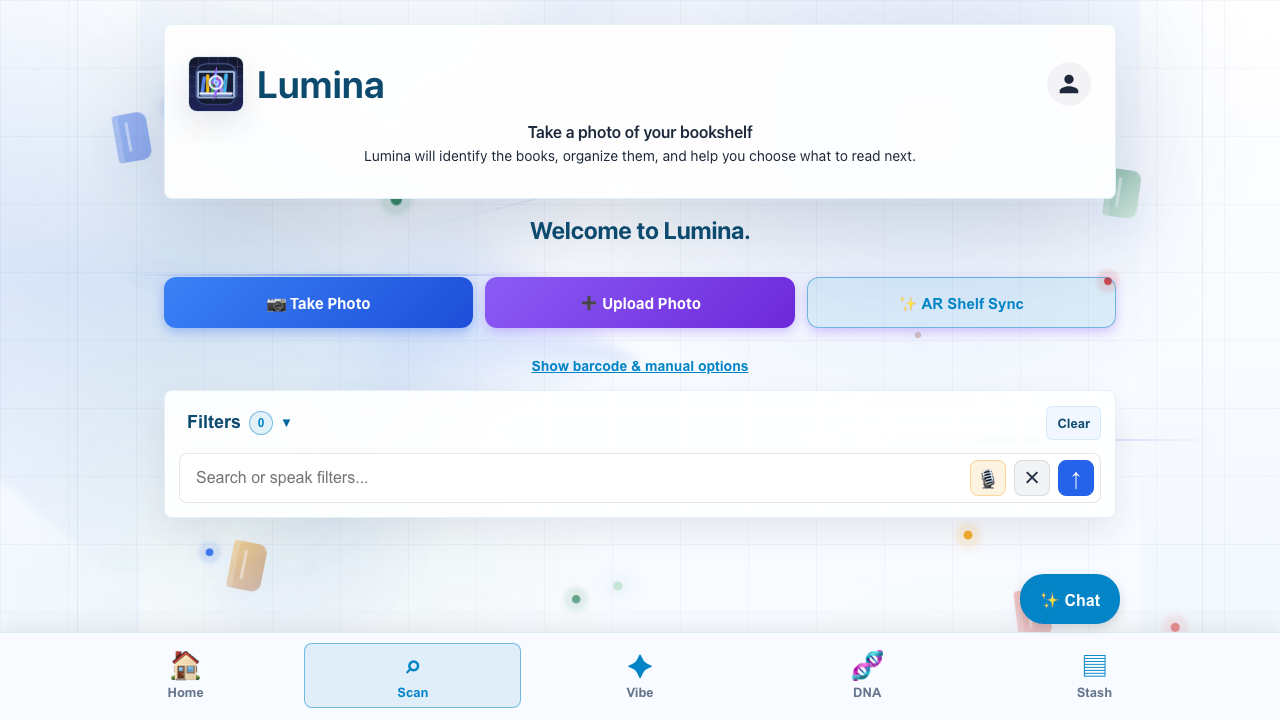
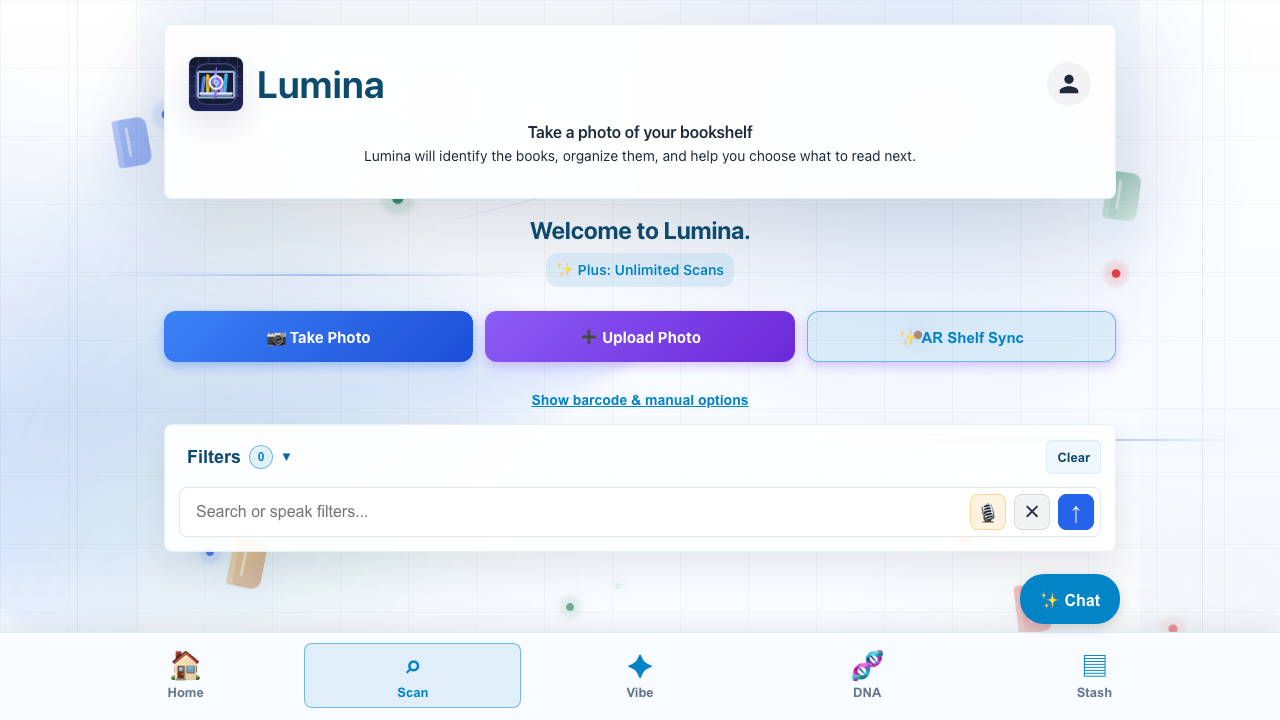
Disable Google Play Billing entirely, remove Purchases capacitor library, and enable free unlimited scans for all users

diff --git a/playwright-report/index.html b/playwright-report/index.html
@@ -87,4 +87,4 @@ Error generating stack: `+l.message+`
     <div id='root'></div>
   </body>
 </html>
[2 lines of base64/hex data omitted]

diff --git a/src/App.jsx b/src/App.jsx
@@ -68,7 +68,6 @@ import CompareTray from "./components/CompareTray";
 import ScanLandingSection from "./components/ScanLandingSection";
 import ScanResultsSection from "./components/ScanResultsSection";
 import HomeDashboard from "./components/HomeDashboard";
-import { Purchases, LOG_LEVEL } from "@revenuecat/purchases-capacitor";
 import localforage from "localforage";
 import { BarcodeFormat, BarcodeScanner } from "@capacitor-mlkit/barcode-scanning";
 const IS_BETA_MODE = true;
@@ -1817,24 +1816,6 @@ export default function App() {
   useEffect(() => {
     writeStoredJson("libraryCards", libraryCards);
   }, [libraryCards]);
-
-  useEffect(() => {
-    const initRevenueCat = async () => {
-      if (isNativeApp && !IS_BETA_MODE) {
-        try {
-          await Purchases.setLogLevel({ level: LOG_LEVEL.DEBUG });
-          if (isAndroidApp) {
-            await Purchases.configure({ apiKey: "test_nhJMYDdQJKSDFIFhVBzrtniTUJi" });
-          } else {
-            await Purchases.configure({ apiKey: "test_nhJMYDdQJKSDFIFhVBzrtniTUJi" });
-          }
-        } catch (e) {
-          console.error("Error initializing RevenueCat", e);
-        }
-      }
-    };
-    initRevenueCat();
-  }, []);
 
   useEffect(() => {
     if (!authLoading) return undefined;
@@ -4524,22 +4505,6 @@ Important:
       showToast("Hey bestie! ✨ Log in to unlock Beta Plus for unlimited scans! 🌙", "info");
       setCurrentPage("account");
       return;
-    }
-
-    if (!IS_BETA_MODE && isNativeApp) {
-      try {
-        const offerings = await Purchases.getOfferings();
-        if (offerings.current !== null && offerings.current.availablePackages.length !== 0) {
-          const packageToBuy = offerings.current.availablePackages[0];
-          await Purchases.purchasePackage({ aPackage: packageToBuy });
-        }
-      } catch (e) {
-        console.error("Purchase failed", e);
-        if (!e.userCancelled) {
-          showToast("Purchase failed. Please try again.", "error");
-        }
-        return;
-      }
     }
 
     setSelectedPlusPlan(plan.id);

diff --git a/src/hooks/useScan.js b/src/hooks/useScan.js
@@ -8,32 +8,12 @@ export function useScan({ db, user }) {
   // Scan Limit Tracking
   const [scanLimitModalState, setScanLimitModalState] = useState(null); // null, "login_required", "plus_required"
   const [anonymousScanCount, setAnonymousScanCount] = useState(0);
-  const [isAnonymousPlus, setIsAnonymousPlus] = useState(false);
+  const [isAnonymousPlus, setIsAnonymousPlus] = useState(true);
   const [userScanCount, setUserScanCount] = useState(0);
-  const [isUserPlus, setIsUserPlus] = useState(false);
+  const [isUserPlus, setIsUserPlus] = useState(true);
   const [lastScanDate, setLastScanDate] = useState("");
 
   const checkScanLimit = () => {
-    // Only allow Plus for logged-in users
-    const activePlus = user ? isUserPlus : false;
-    if (activePlus) return true;
-
-    const today = new Date().toISOString().split("T")[0];
-    const isNewDay = lastScanDate !== today;
-
-    if (user) {
-      const currentCount = isNewDay ? 0 : userScanCount;
-      if (currentCount >= 10) {
-        setScanLimitModalState("plus_required");
-        return false;
-      }
-    } else {
-      const currentCount = isNewDay ? 0 : anonymousScanCount;
-      if (currentCount >= 3) {
-        setScanLimitModalState("login_required");
-        return false;
-      }
-    }
     return true;
   };
 

diff --git a/src/test/useScan.test.jsx b/src/test/useScan.test.jsx
@@ -18,18 +18,18 @@ describe("useScan hook", () => {
   it("should check scan limit properly for anonymous user", () => {
     const { result } = renderHook(() => useScan({ db: {}, user: null }));
     
-    // Simulate they hit the limit of 3 today
+    // Simulate any scan count
     act(() => {
       result.current.setLastScanDate(new Date().toISOString().split("T")[0]);
-      result.current.setAnonymousScanCount(3);
+      result.current.setAnonymousScanCount(5);
     });
 
     let canScan;
     act(() => {
       canScan = result.current.checkScanLimit();
     });
-    expect(canScan).toBe(false);
-    expect(result.current.scanLimitModalState).toBe("login_required");
+    expect(canScan).toBe(true);
+    expect(result.current.scanLimitModalState).toBeNull();
   });
 
   it("should increment user scan count", async () => {
